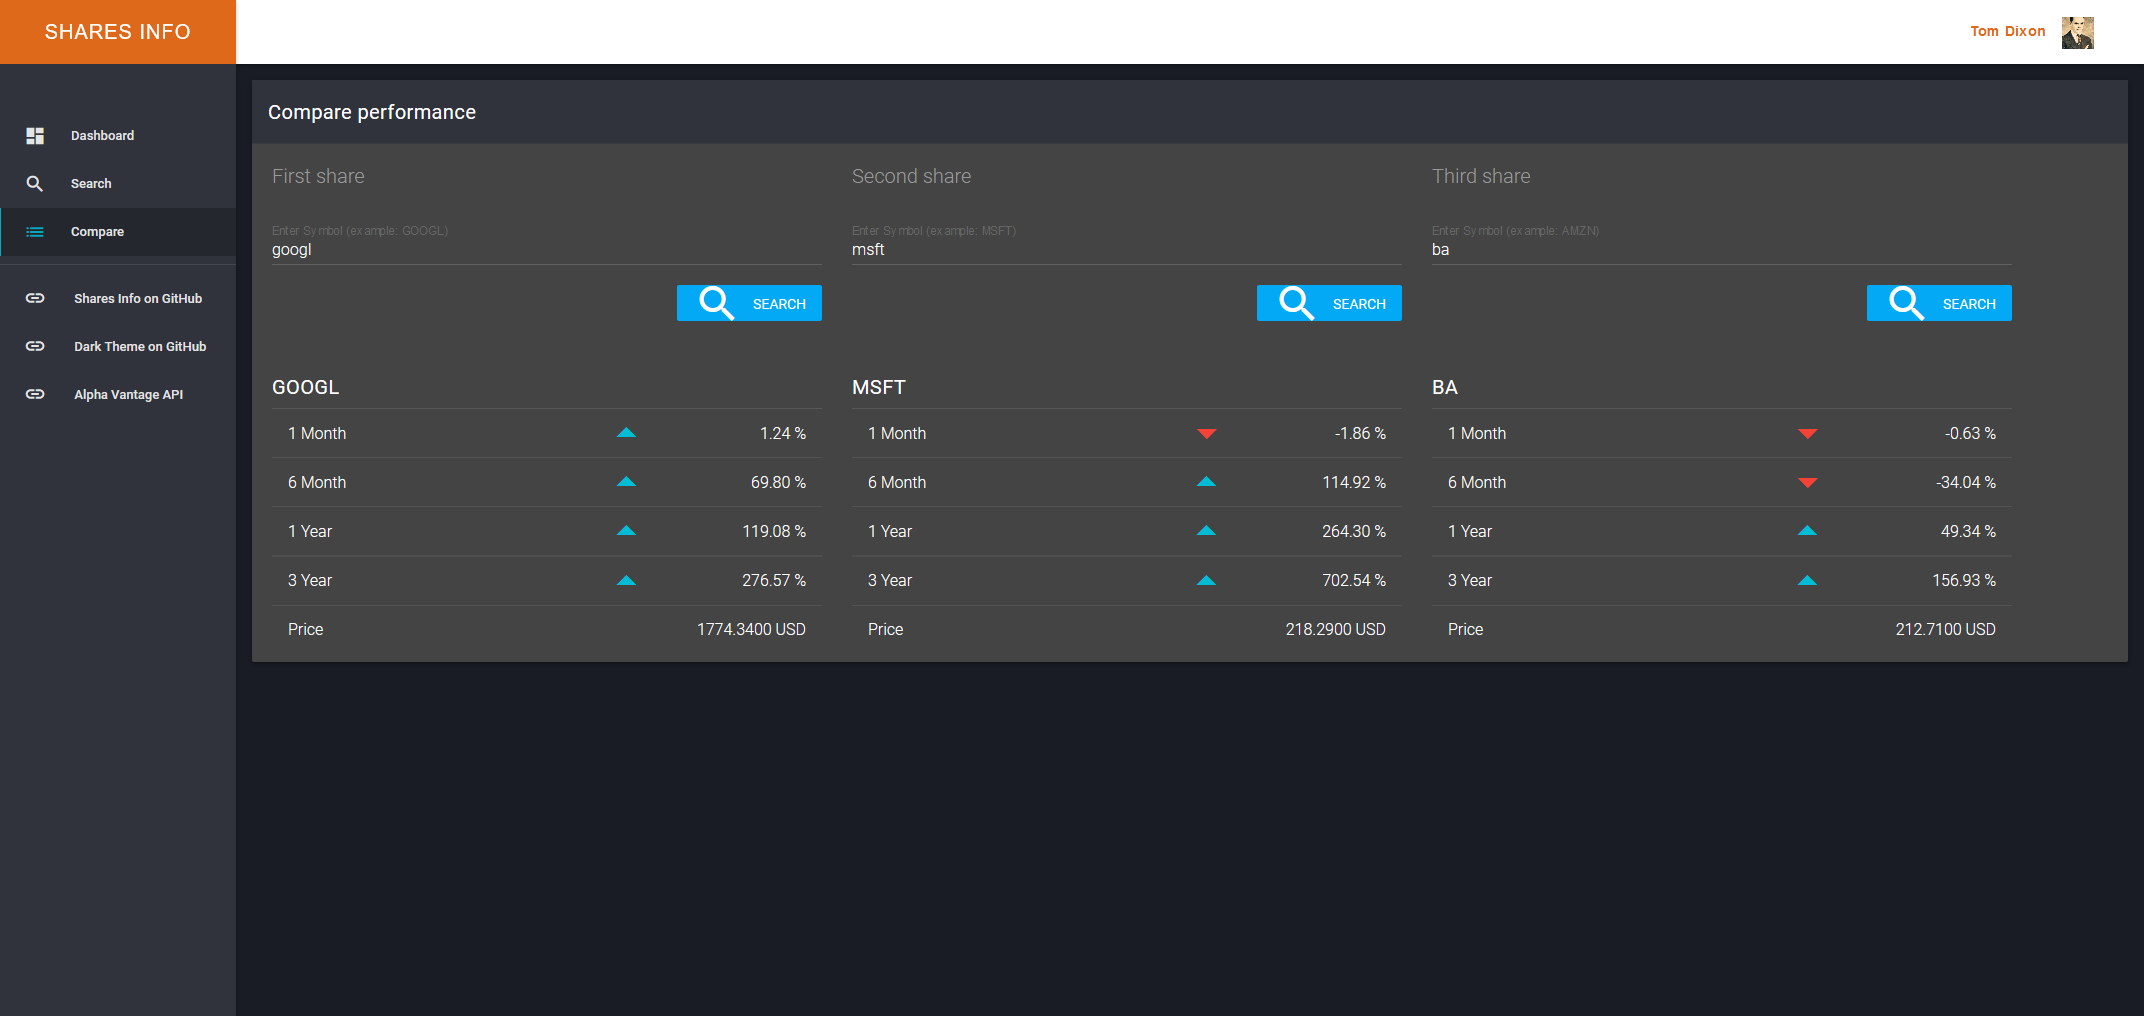
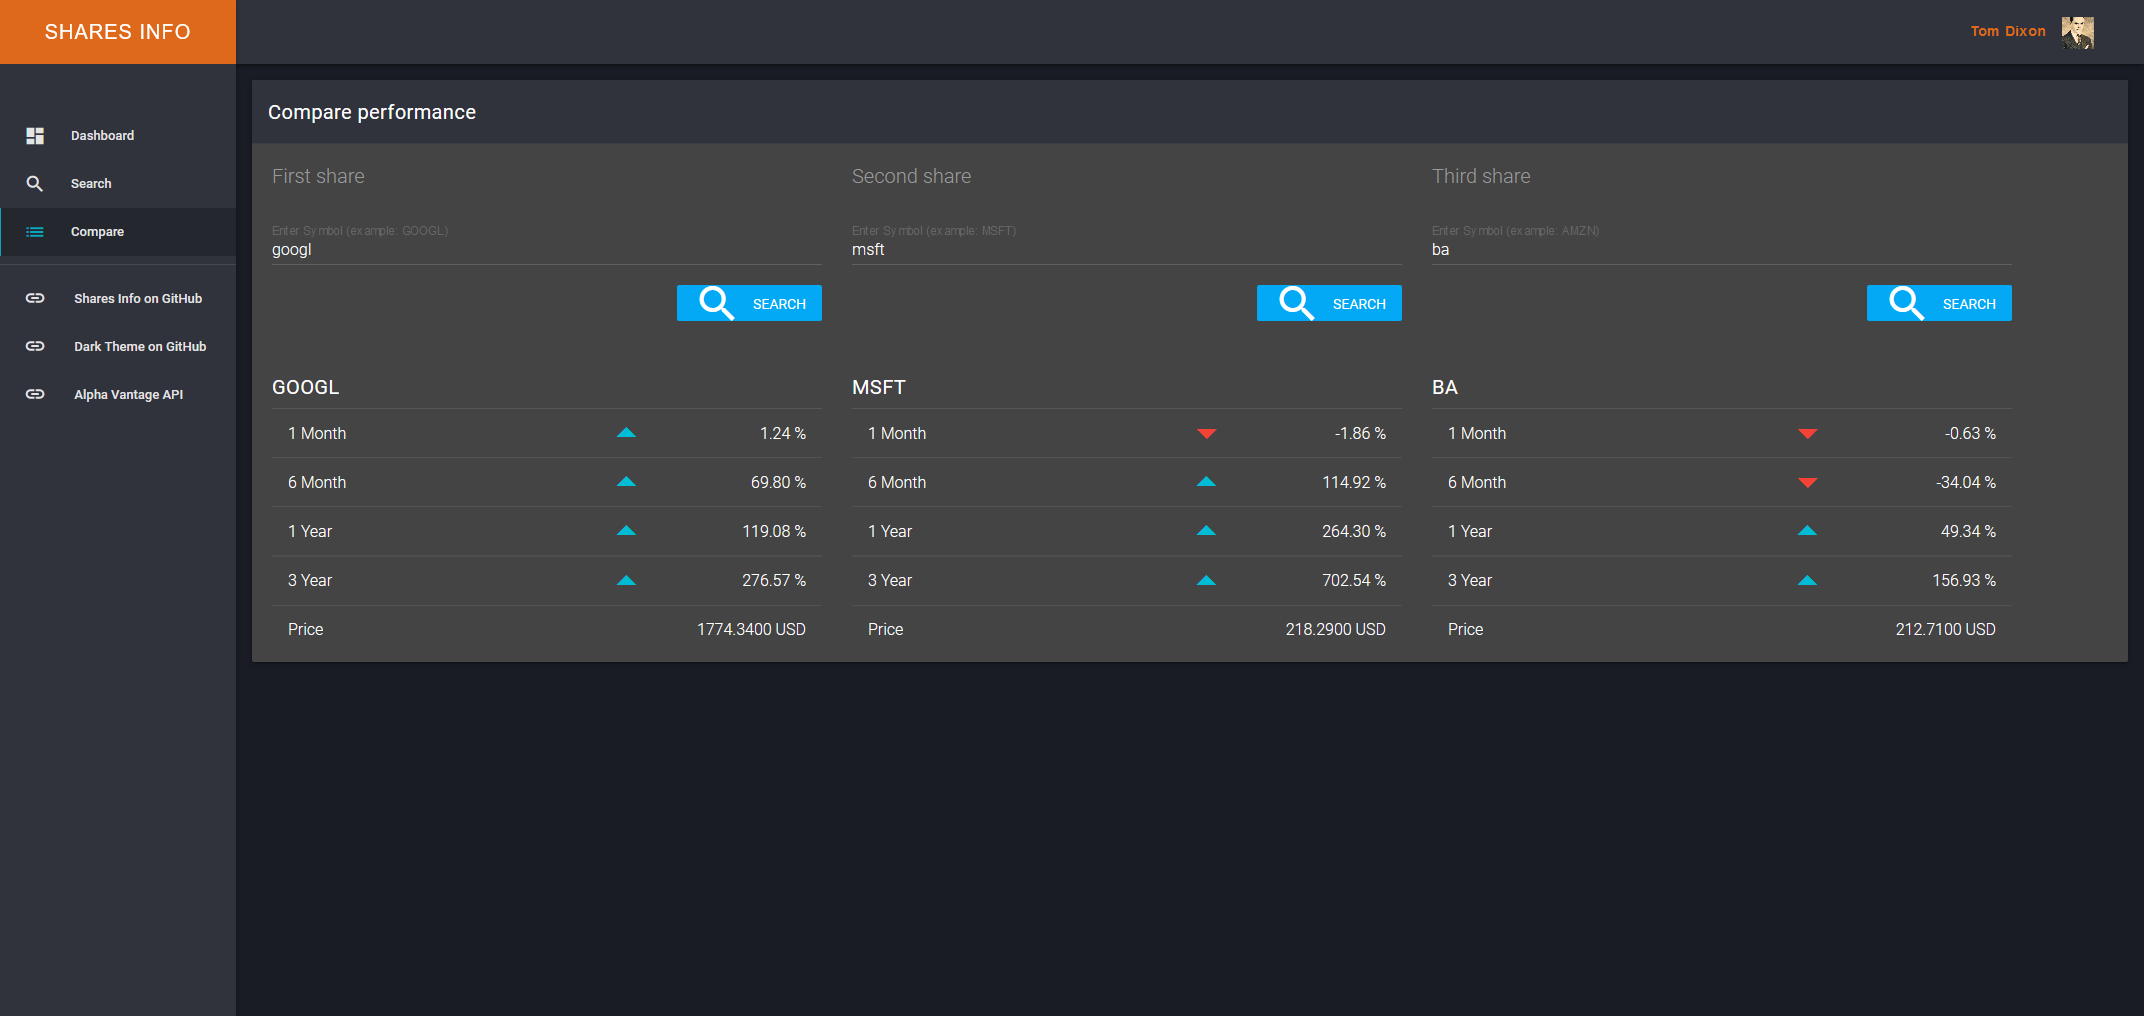
new screenshots

Changed region(s): [[0.0938, 0.0, 1.0, 0.061]]

diff --git a/src/app/layouts/common-layout/common-layout.component.html b/src/app/layouts/common-layout/common-layout.component.html
@@ -1,6 +1,6 @@
 <div class="mdl-layout mdl-js-layout mdl-layout--fixed-drawer mdl-layout--fixed-header has-drawer">
   <div class="mdl-layout__header">
-    <base-page-top style="background-color:white">
+    <base-page-top style="background-color:#30333C">
       <div class="mdl-layout-spacer"></div>
 
       <div class="avatar-dropdown" id="icon">

diff --git a/README.md b/README.md
@@ -28,7 +28,7 @@ It uses a free dark material theme by  [creativeit.io](http://material-angular-d
 
 
 
-#### Compare shares paerformance
+#### Compare shares performance
 
 ![compare](/screenshots/compare.png)
 
